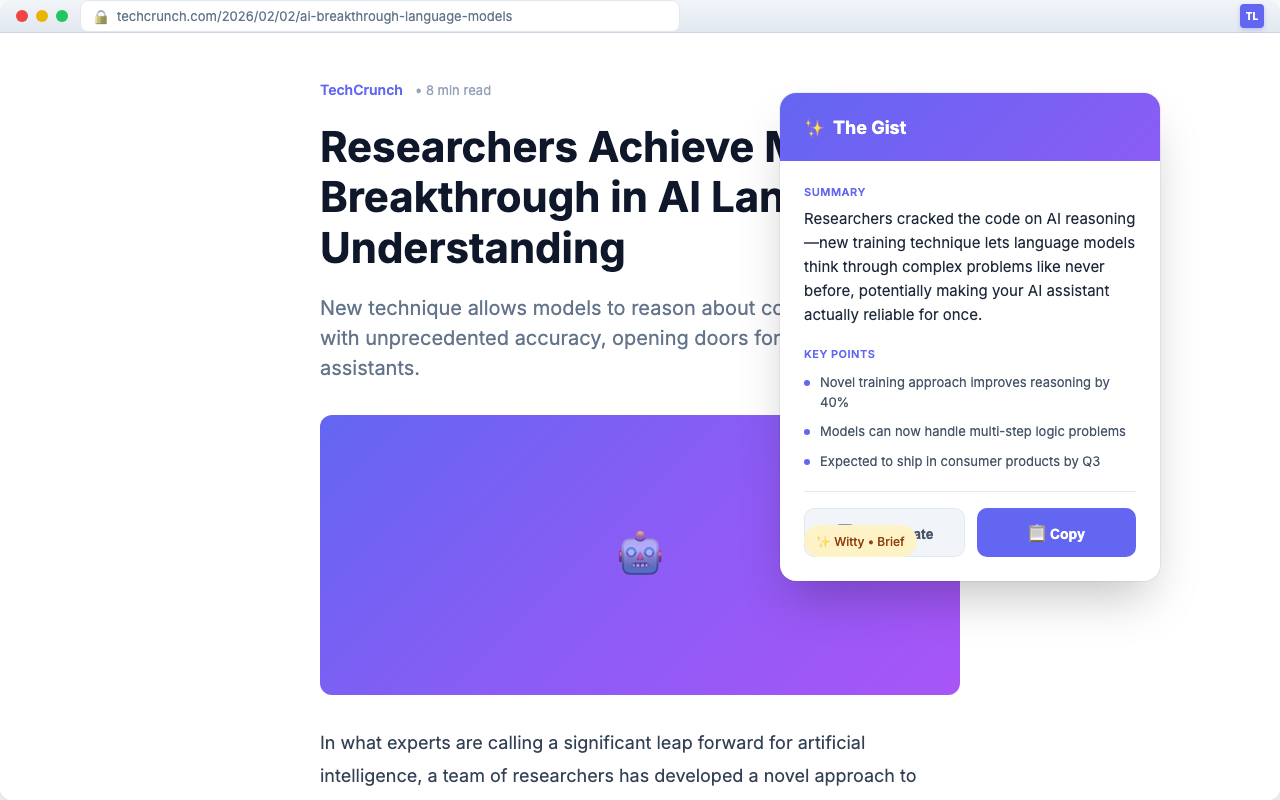
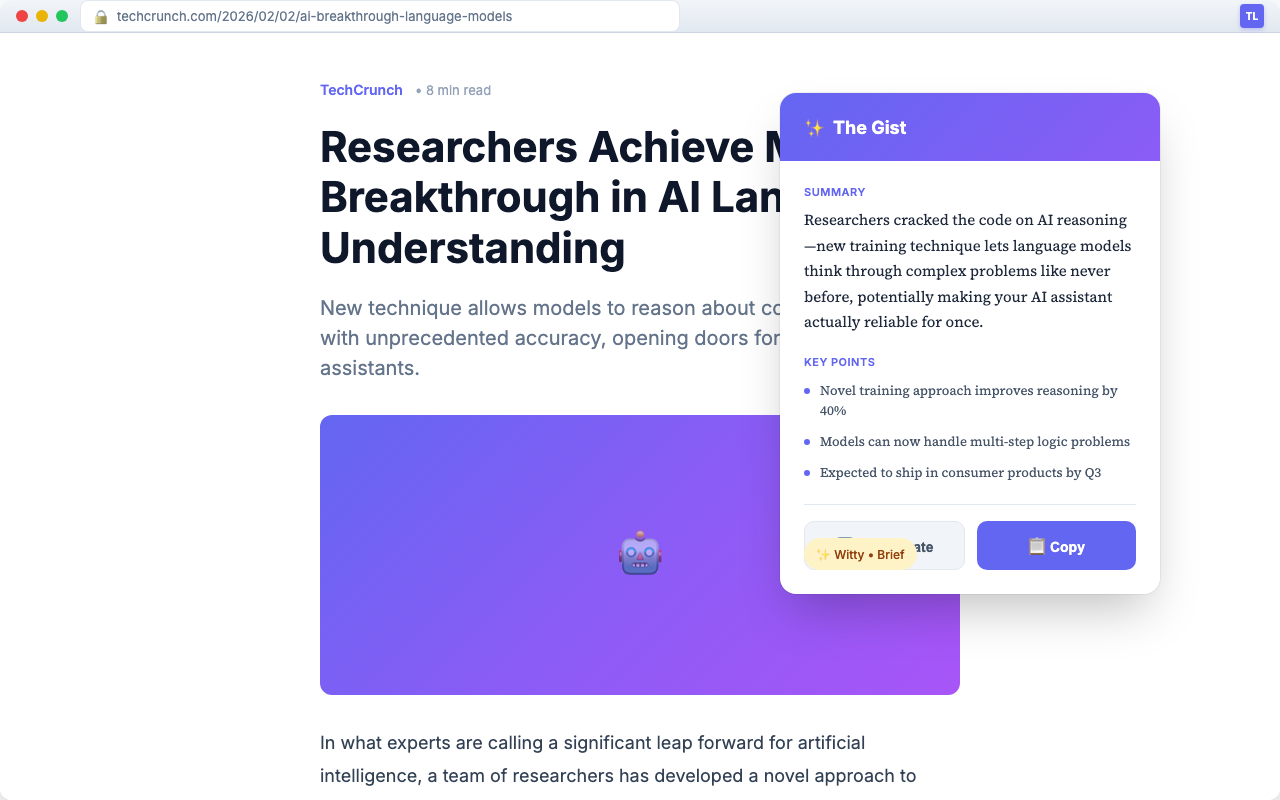
style: Add Source Serif 4 font for elegant reading experience
- Added Google Fonts Source Serif 4 to popup and options pages
- Applied serif font to summary text, key points, and article titles
- Updated mockups and regenerated screenshots with new typography
- Serif font provides a more refined, book-like reading experience

Typography choices:
- UI elements: System sans-serif (clean, functional)
- Reading content: Source Serif 4 (elegant, readable)

Changed region(s): [[0.625, 0.25, 0.9062, 0.4062], [0.5938, 0.625, 0.9062, 0.75], [0.625, 0.4375, 0.875, 0.625]]

diff --git a/src/popup/popup.css b/src/popup/popup.css
@@ -32,6 +32,7 @@
 
   /* Typography */
   --font-sans: -apple-system, BlinkMacSystemFont, 'Segoe UI', Roboto, sans-serif;
+  --font-serif: 'Source Serif 4', Georgia, 'Times New Roman', serif;
   --font-size-xs: 11px;
   --font-size-sm: 12px;
   --font-size-base: 13px;
@@ -197,9 +198,10 @@ body {
 }
 
 .article-title {
-  font-size: var(--font-size-lg);
+  font-family: var(--font-serif);
+  font-size: 16px;
   font-weight: 600;
-  line-height: 1.3;
+  line-height: 1.35;
   color: var(--text-primary);
   margin-bottom: var(--space-xs);
   display: -webkit-box;
@@ -240,9 +242,11 @@ body {
 }
 
 .summary-text {
-  font-size: var(--font-size-base);
-  line-height: 1.6;
+  font-family: var(--font-serif);
+  font-size: 14px;
+  line-height: 1.7;
   color: var(--text-primary);
+  font-weight: 400;
 }
 
 .key-points {
@@ -258,9 +262,10 @@ body {
   position: relative;
   padding-left: var(--space-lg);
   margin-bottom: var(--space-sm);
-  font-size: var(--font-size-sm);
+  font-family: var(--font-serif);
+  font-size: 13px;
   color: var(--text-secondary);
-  line-height: 1.5;
+  line-height: 1.6;
 }
 
 .key-points-list li::before {

diff --git a/store/mockups/screenshot-1-hero.html b/store/mockups/screenshot-1-hero.html
@@ -4,7 +4,7 @@
   <meta charset="UTF-8">
   <meta name="viewport" content="width=1280, height=800">
   <title>TLDR Screenshot - Hero</title>
-  <link href="https://fonts.googleapis.com/css2?family=Inter:wght@400;500;600;700&display=swap" rel="stylesheet">
+  <link href="https://fonts.googleapis.com/css2?family=Inter:wght@400;500;600;700&family=Source+Serif+4:opsz,wght@8..60,400;8..60,500;8..60,600&display=swap" rel="stylesheet">
   <style>
     * { margin: 0; padding: 0; box-sizing: border-box; }
 
@@ -223,8 +223,9 @@
     }
 
     .summary-text {
+      font-family: 'Source Serif 4', Georgia, serif;
       font-size: 15px;
-      line-height: 1.6;
+      line-height: 1.7;
       color: #1e293b;
     }
 
@@ -258,9 +259,10 @@
     }
 
     .key-point-text {
+      font-family: 'Source Serif 4', Georgia, serif;
       font-size: 13px;
       color: #475569;
-      line-height: 1.5;
+      line-height: 1.6;
     }
 
     .popup-actions {

diff --git a/store/mockups/screenshot-3-before-after.html b/store/mockups/screenshot-3-before-after.html
@@ -4,7 +4,7 @@
   <meta charset="UTF-8">
   <meta name="viewport" content="width=1280, height=800">
   <title>TLDR Screenshot - Before & After</title>
-  <link href="https://fonts.googleapis.com/css2?family=Inter:wght@400;500;600;700;800&display=swap" rel="stylesheet">
+  <link href="https://fonts.googleapis.com/css2?family=Inter:wght@400;500;600;700&family=Source+Serif+4:opsz,wght@8..60,400;8..60,500;8..60,600@400;500;600;700;800&display=swap" rel="stylesheet">
   <style>
     * { margin: 0; padding: 0; box-sizing: border-box; }
 

diff --git a/store/mockups/screenshot-4-sites.html b/store/mockups/screenshot-4-sites.html
@@ -4,7 +4,7 @@
   <meta charset="UTF-8">
   <meta name="viewport" content="width=1280, height=800">
   <title>TLDR Screenshot - Multi-Site</title>
-  <link href="https://fonts.googleapis.com/css2?family=Inter:wght@400;500;600;700;800&display=swap" rel="stylesheet">
+  <link href="https://fonts.googleapis.com/css2?family=Inter:wght@400;500;600;700&family=Source+Serif+4:opsz,wght@8..60,400;8..60,500;8..60,600@400;500;600;700;800&display=swap" rel="stylesheet">
   <style>
     * { margin: 0; padding: 0; box-sizing: border-box; }
 

diff --git a/store/mockups/promo-large-tile.html b/store/mockups/promo-large-tile.html
@@ -4,7 +4,7 @@
   <meta charset="UTF-8">
   <meta name="viewport" content="width=920, height=680">
   <title>TLDR Large Tile</title>
-  <link href="https://fonts.googleapis.com/css2?family=Inter:wght@400;500;600;700;800;900&display=swap" rel="stylesheet">
+  <link href="https://fonts.googleapis.com/css2?family=Inter:wght@400;500;600;700&family=Source+Serif+4:opsz,wght@8..60,400;8..60,500;8..60,600@400;500;600;700;800;900&display=swap" rel="stylesheet">
   <style>
     * { margin: 0; padding: 0; box-sizing: border-box; }
 

diff --git a/src/options/options.html b/src/options/options.html
@@ -4,6 +4,9 @@
   <meta charset="UTF-8">
   <meta name="viewport" content="width=device-width, initial-scale=1.0">
   <title>TLDR Settings</title>
+  <link rel="preconnect" href="https://fonts.googleapis.com">
+  <link rel="preconnect" href="https://fonts.gstatic.com" crossorigin>
+  <link href="https://fonts.googleapis.com/css2?family=Source+Serif+4:ital,opsz,wght@0,8..60,400;0,8..60,500;0,8..60,600;1,8..60,400&display=swap" rel="stylesheet">
   <link rel="stylesheet" href="options.css">
 </head>
 <body>

diff --git a/src/popup/popup.html b/src/popup/popup.html
@@ -4,6 +4,9 @@
   <meta charset="UTF-8">
   <meta name="viewport" content="width=device-width, initial-scale=1.0">
   <title>TLDR</title>
+  <link rel="preconnect" href="https://fonts.googleapis.com">
+  <link rel="preconnect" href="https://fonts.gstatic.com" crossorigin>
+  <link href="https://fonts.googleapis.com/css2?family=Source+Serif+4:ital,opsz,wght@0,8..60,400;0,8..60,500;0,8..60,600;1,8..60,400&display=swap" rel="stylesheet">
   <link rel="stylesheet" href="popup.css">
 </head>
 <body>

diff --git a/src/options/options.css b/src/options/options.css
@@ -26,6 +26,7 @@
   --border: #e2e8f0;
 
   --font-sans: -apple-system, BlinkMacSystemFont, 'Segoe UI', Roboto, sans-serif;
+  --font-serif: 'Source Serif 4', Georgia, 'Times New Roman', serif;
   --radius-sm: 6px;
   --radius-md: 10px;
   --radius-lg: 16px;
